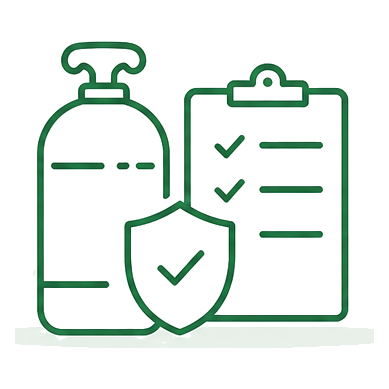
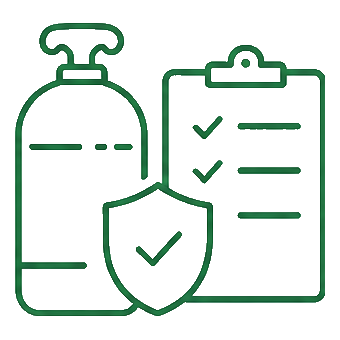
Total Solution 아이콘에서 옅은 배경 블롭 제거(채색 라인만 투명 추출) — 배경색 없는 스타일. 캐시버스트 bump(c)

Changed region(s): [[0.0294, 0.0588, 0.9706, 0.9412]]

diff --git a/products-construction.html b/products-construction.html
@@ -249,13 +249,13 @@
           </div>
           <div class="cards cards--2">
           <article class="feature">
-            <span class="feature__ic feature__ic--img" aria-hidden="true"><img src="assets/images/site/construction/link-gas.png?v=20260830b" alt="" loading="lazy"></span>
+            <span class="feature__ic feature__ic--img" aria-hidden="true"><img src="assets/images/site/construction/link-gas.png?v=20260830c" alt="" loading="lazy"></span>
             <h3 class="feature__title">가스 공급 연계</h3>
             <p class="feature__text">고품질 가스의 안정적인 공급을 지원합니다.</p>
             <a class="pgcard__more" href="products-gas.html">가스제품 보기</a>
           </article>
           <article class="feature">
-            <span class="feature__ic feature__ic--img" aria-hidden="true"><img src="assets/images/site/construction/link-inspect.png?v=20260830b" alt="" loading="lazy"></span>
+            <span class="feature__ic feature__ic--img" aria-hidden="true"><img src="assets/images/site/construction/link-inspect.png?v=20260830c" alt="" loading="lazy"></span>
             <h3 class="feature__title">용기검사 연계</h3>
             <p class="feature__text">전문검사기관과 연계하여 용기검사를 지원합니다.</p>
             <a class="pgcard__more" href="products-supply.html">용기검사 보기</a>
